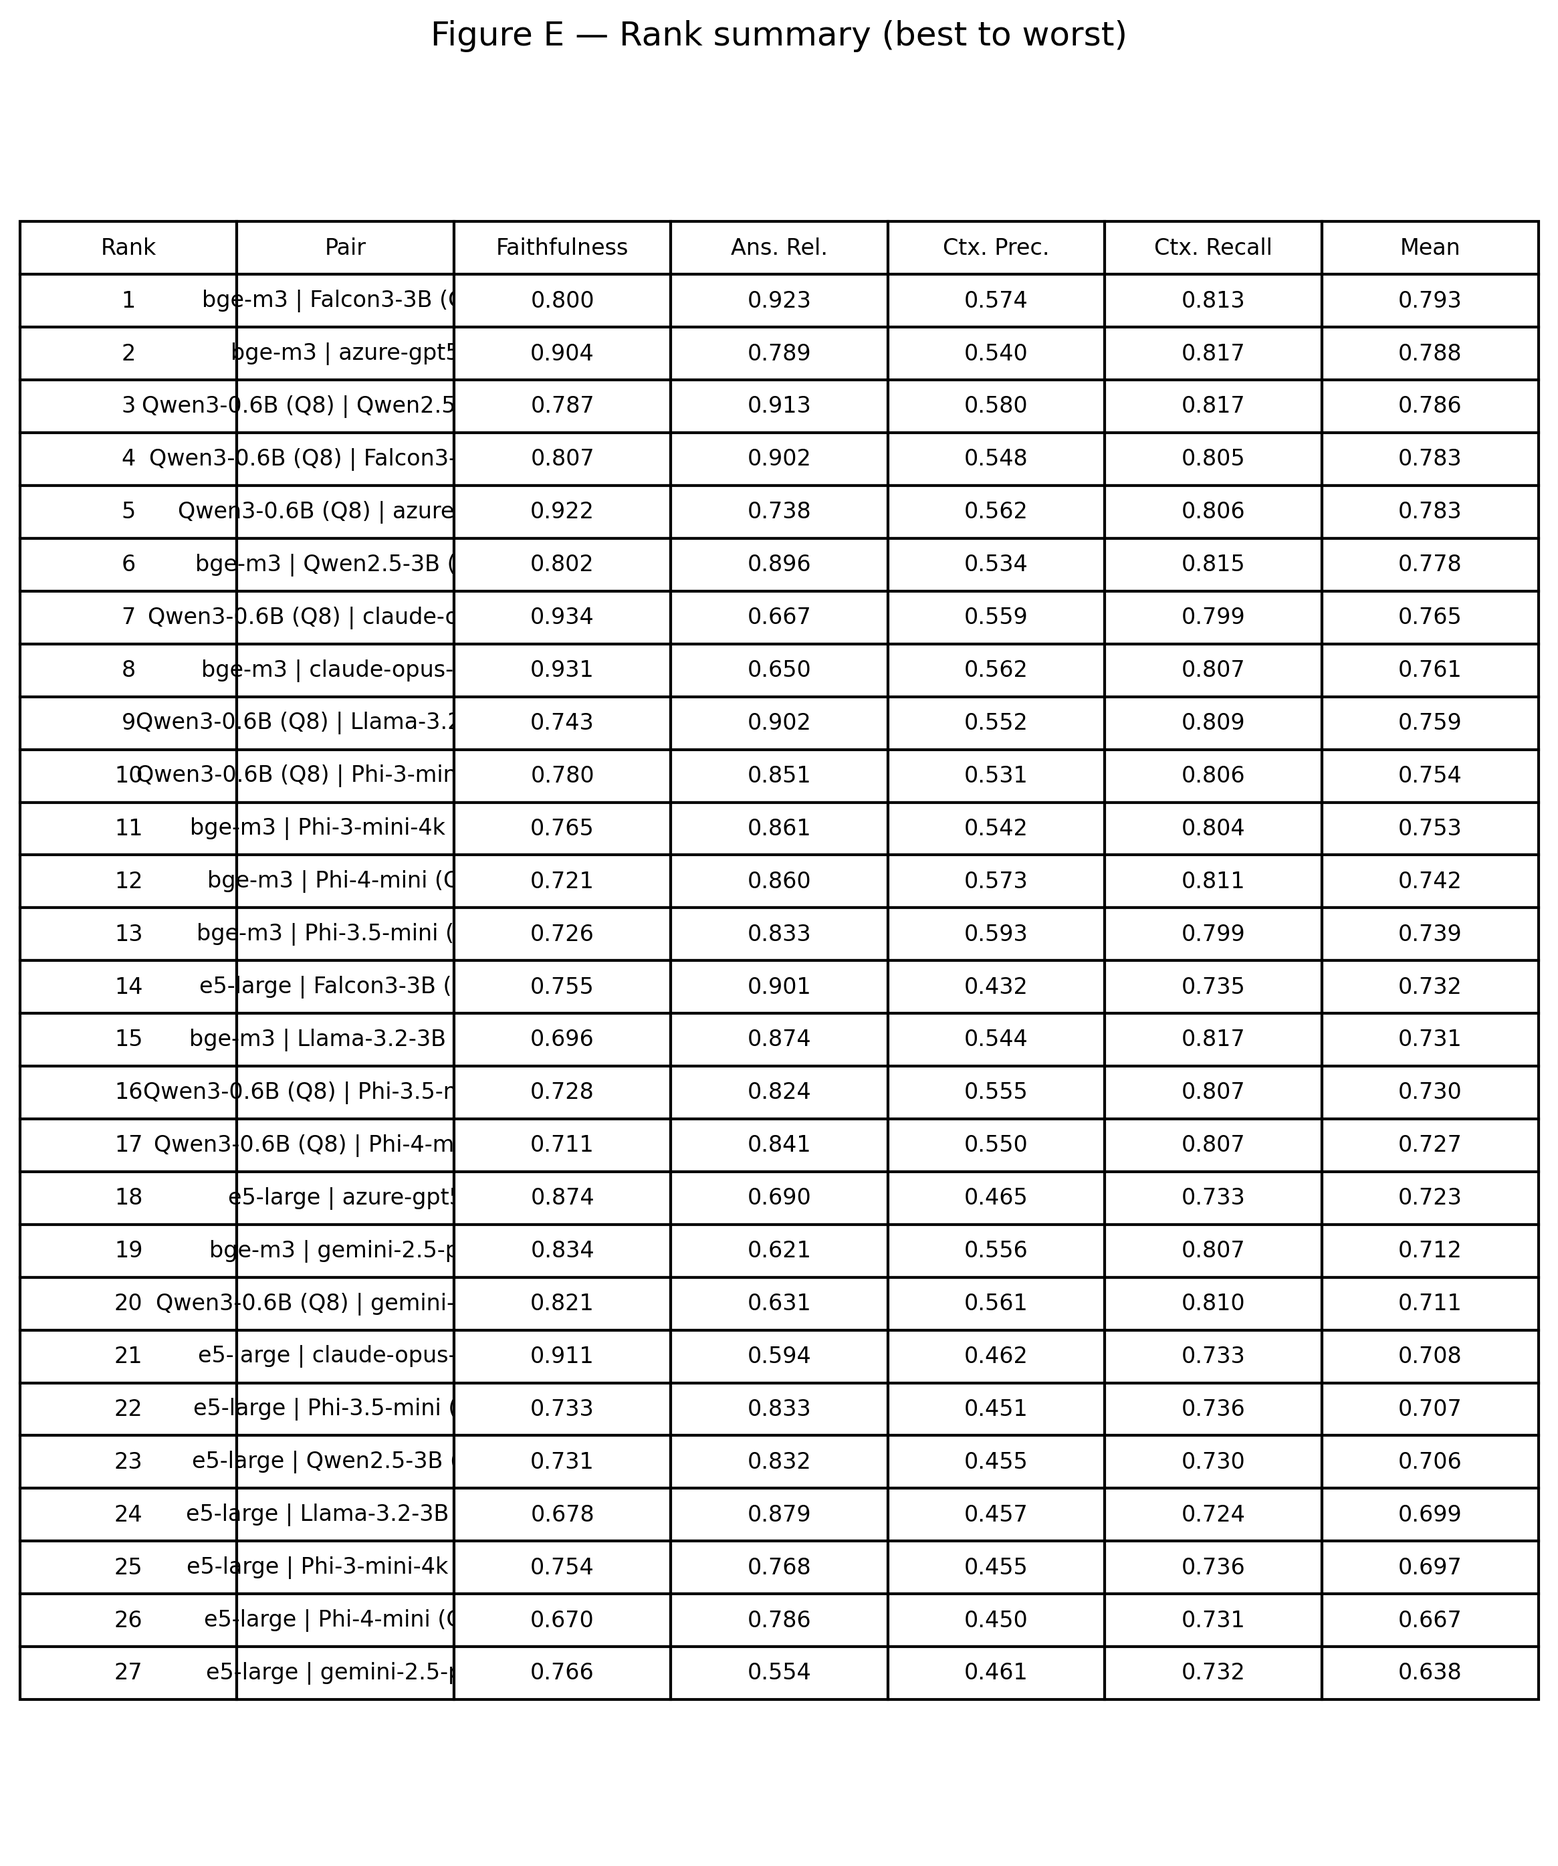
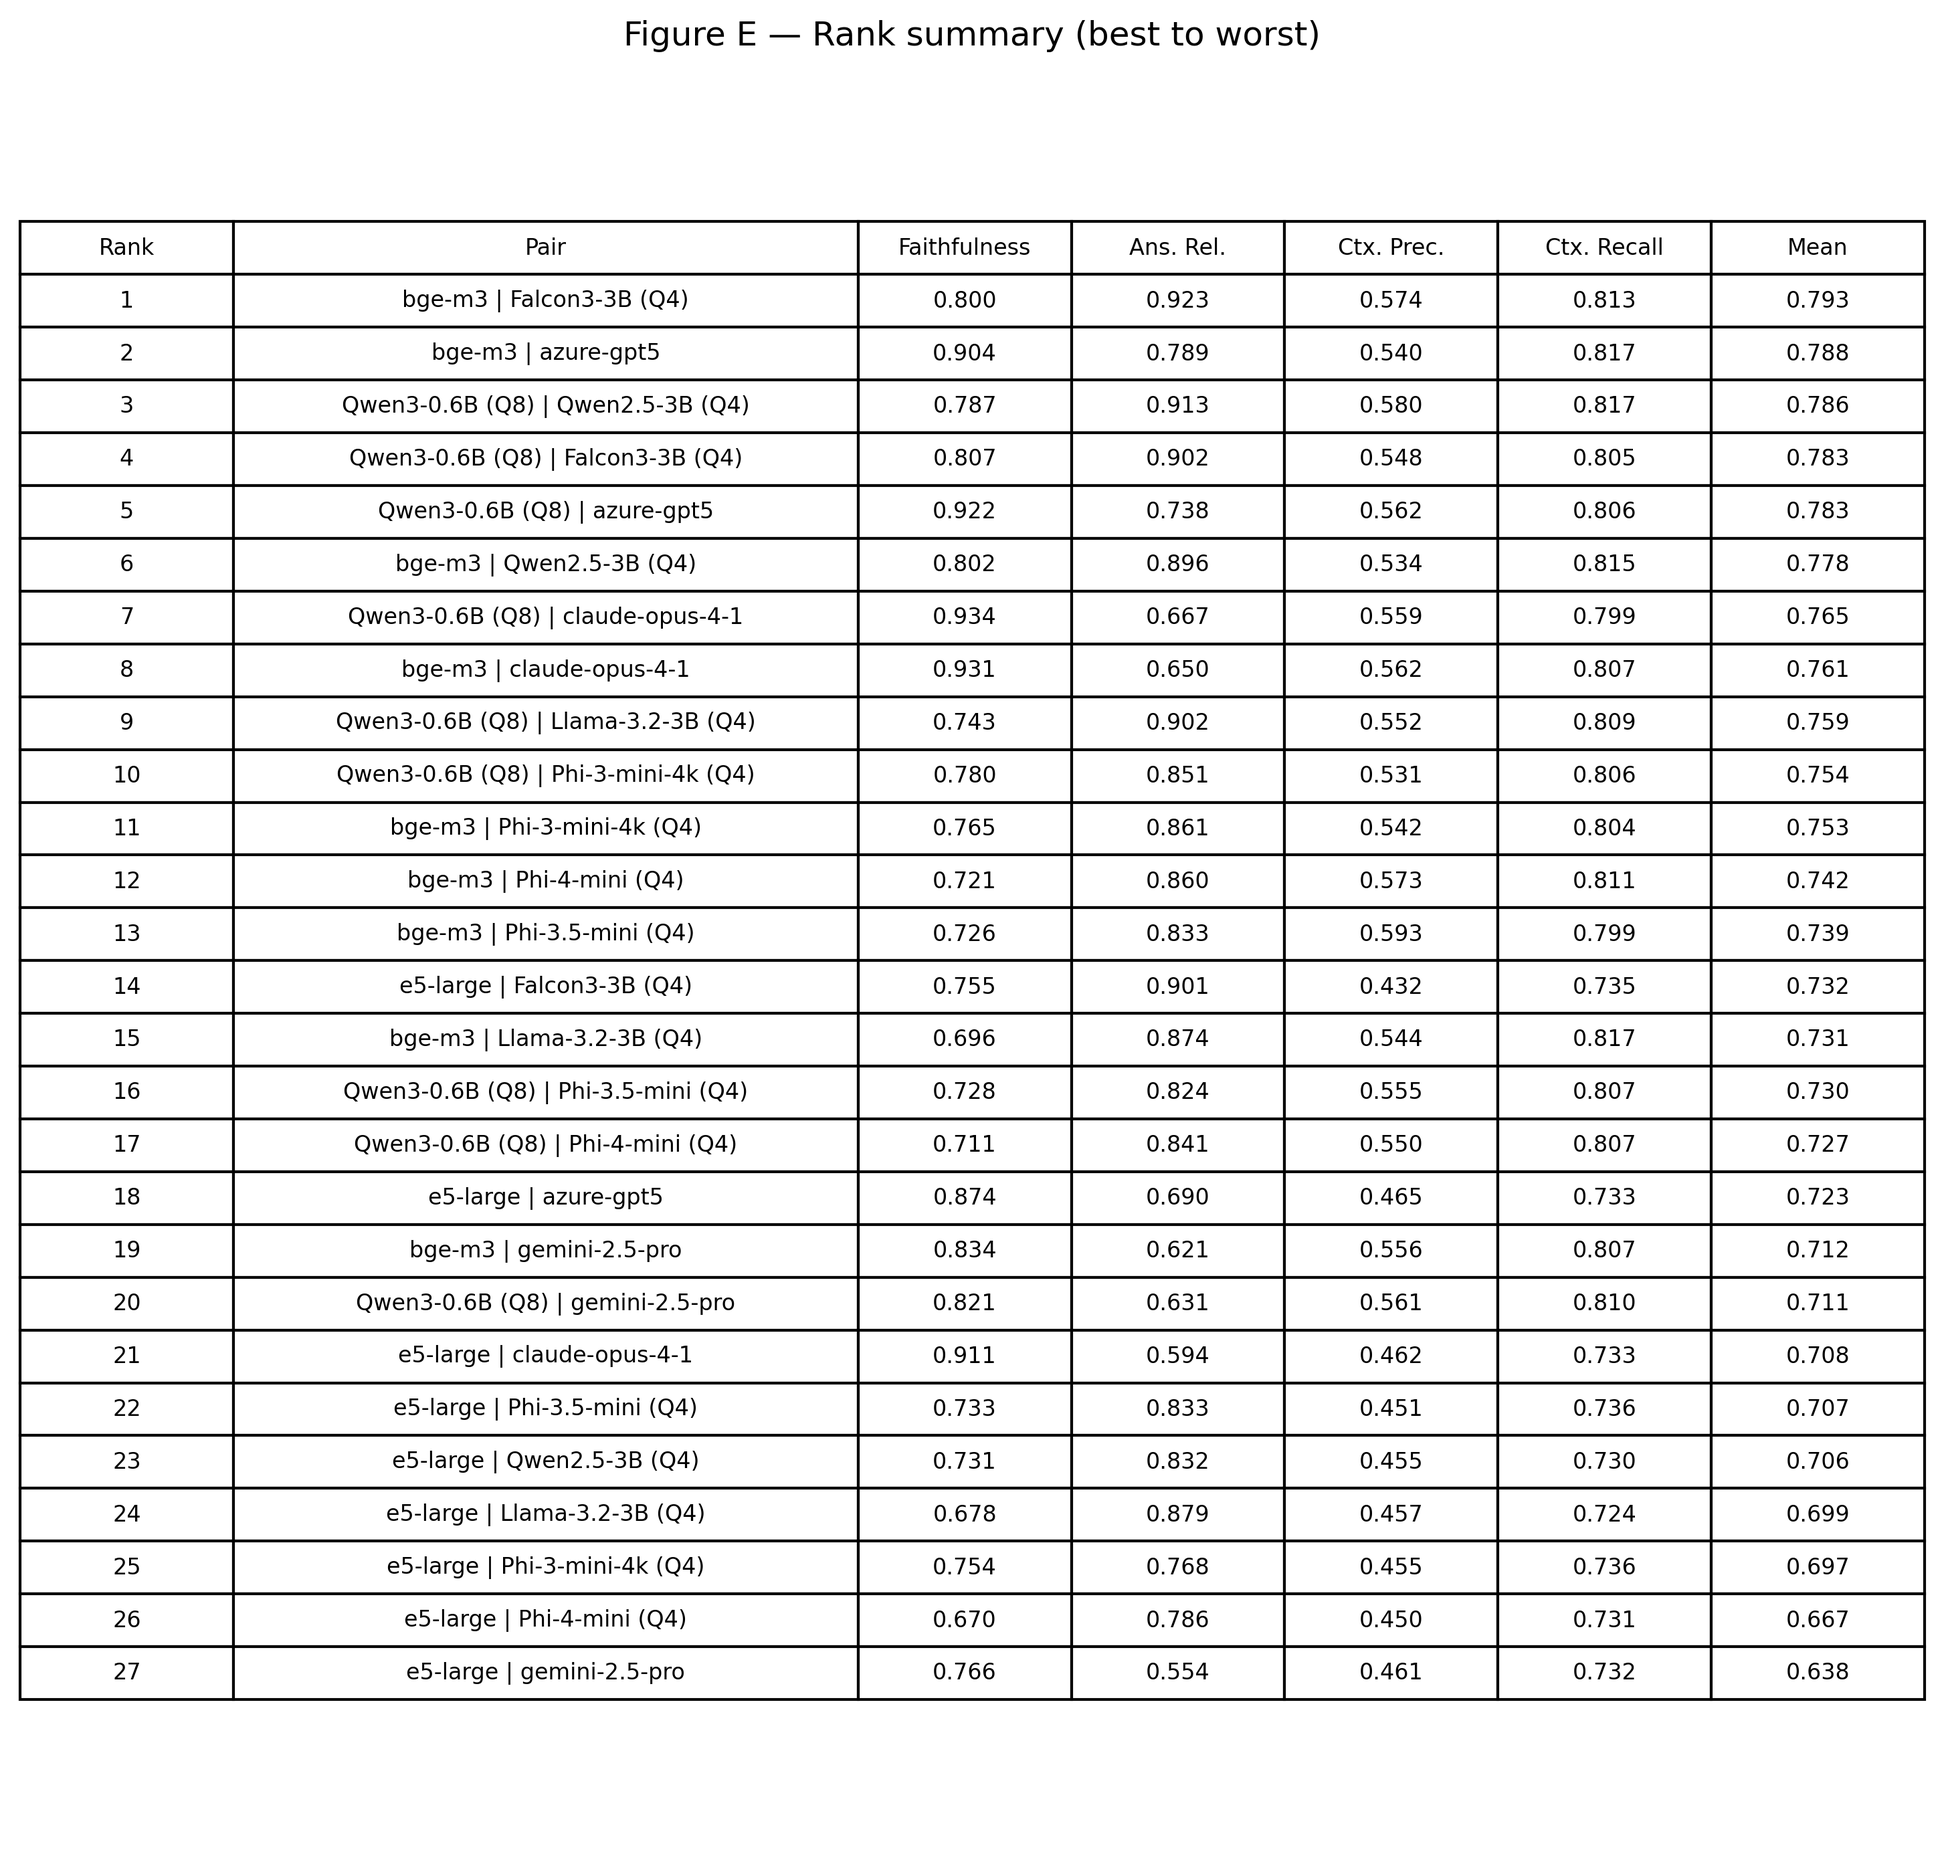
fixed the column sizing for figure e

diff --git a/src/benchmarking/plot_rag_results.py b/src/benchmarking/plot_rag_results.py
@@ -440,7 +440,14 @@ def plot_ranking(
 
         n_rows = len(cell_text)
         fig_h_in = max(2.5, min(18.0, 0.35 * n_rows))
-        fig_w_in = _mm_to_in(200)
+
+        # Calculate dynamic width based on longest pair name
+        max_pair_length = max(len(row[1]) for row in cell_text) if cell_text else 20
+        # Base width + extra width for long pair names (roughly 0.12" per character)
+        extra_width = max(0, (max_pair_length - 20) * 0.12)
+        fig_w_in = _mm_to_in(200) + extra_width
+        fig_w_in = min(fig_w_in, _mm_to_in(300))  # Cap at 300mm to prevent excessive width
+
         fig_tbl, ax_tbl = plt.subplots(figsize=(fig_w_in, fig_h_in))
         ax_tbl.axis("off")
         tbl = ax_tbl.table(
@@ -452,6 +459,19 @@ def plot_ranking(
         )
         tbl.auto_set_font_size(False)
         tbl.set_fontsize(8)
+
+        # Adjust column widths: make pair column wider, others narrower
+        n_cols = len(table_cols)
+        if n_cols > 0:
+            # Pair column gets more space, others get proportionally less
+            pair_col_width = min(0.35, 0.2 + (max_pair_length - 20) * 0.008)
+            other_col_width = (1.0 - pair_col_width) / (n_cols - 1)
+
+            for i in range(n_cols):
+                col_width = pair_col_width if i == 1 else other_col_width  # Column 1 is "Pair"
+                for j in range(n_rows + 1):  # +1 for header row
+                    tbl[(j, i)].set_width(col_width)
+
         tbl.scale(1.0, 1.3)
         fig_tbl.suptitle("Figure E — Rank summary (best to worst)", y=0.98)
         _save(fig_tbl, outdir / "figure_E_rank_summary", fmt)
